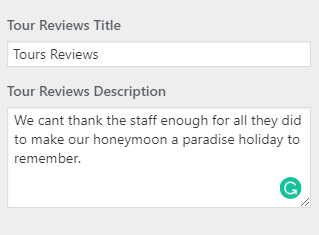
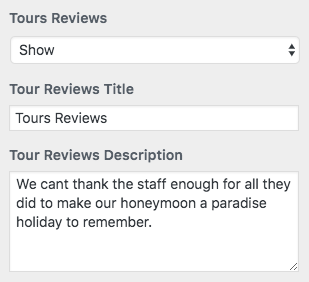
Improve: Tour Details page

Changed region(s): [[0.0291, 0.2979, 0.9903, 0.8936], [0.0291, 0.0298, 0.9612, 0.2681], [0.932, 0.9234, 0.9612, 0.9532]]

diff --git a/docs/tour/settings/tour-detail-page.md b/docs/tour/settings/tour-detail-page.md
@@ -1,29 +1,29 @@
 ## **Booking Form in Sidebar**
 
-You can choose booking form in sidebar option from **Dashboard &rarr; Customize &rarr; Tour Detail Page** as shown below.
+You can choose **Booking Form** in sidebar option from **Dashboard &rarr; Appearance &rarr;  Customize &rarr; Tour Detail Page** as shown below.
 
 ![img](../../img/tour-form-sidebar.png)
 
-It will look like the below image on front-end
+You can see the Booking Form in action at frontend in the picture below.
 
 ![img](../../img/tour-form-sidebar-front.png)
 
 ## **Tour Reviews**
 
-You can add tour reviews section details from **Dashboard &rarr; Customize &rarr; Tour Detail Page** as shown below.
+You can chose to display **Tour Reviews** section on **Tour Details Page** from **Dashboard &rarr; Appearance &rarr;  Customize &rarr; Tour Detail Page** as shown below.
 
 ![img](../../img/tour-reviews.png)
 
-It will look like the below image on front-end. You can rate and review this tour based on your experience.
+A screenshot of Tour Reviews is displayed below. You can rate and review this tour based on your experience.
 
 ![img](../../img/tour-reviews-front.png)
 
 ## **Similar Tours**
 
-You can add similar tours details from **Dashboard &rarr; Customize &rarr; Tour Detail Page** as shown below.
+You can also choose to show **Similar Tours** via **Dashboard &rarr; Appearance &rarr; Customize &rarr; Tour Detail Page** as shown below.
 
 ![img](../../img/similar-tours.png)
 
-It will look like the below image on front-end. 
+You can see it at frontend in the picture below.
 
 ![img](../../img/similar-tours-front.png)
